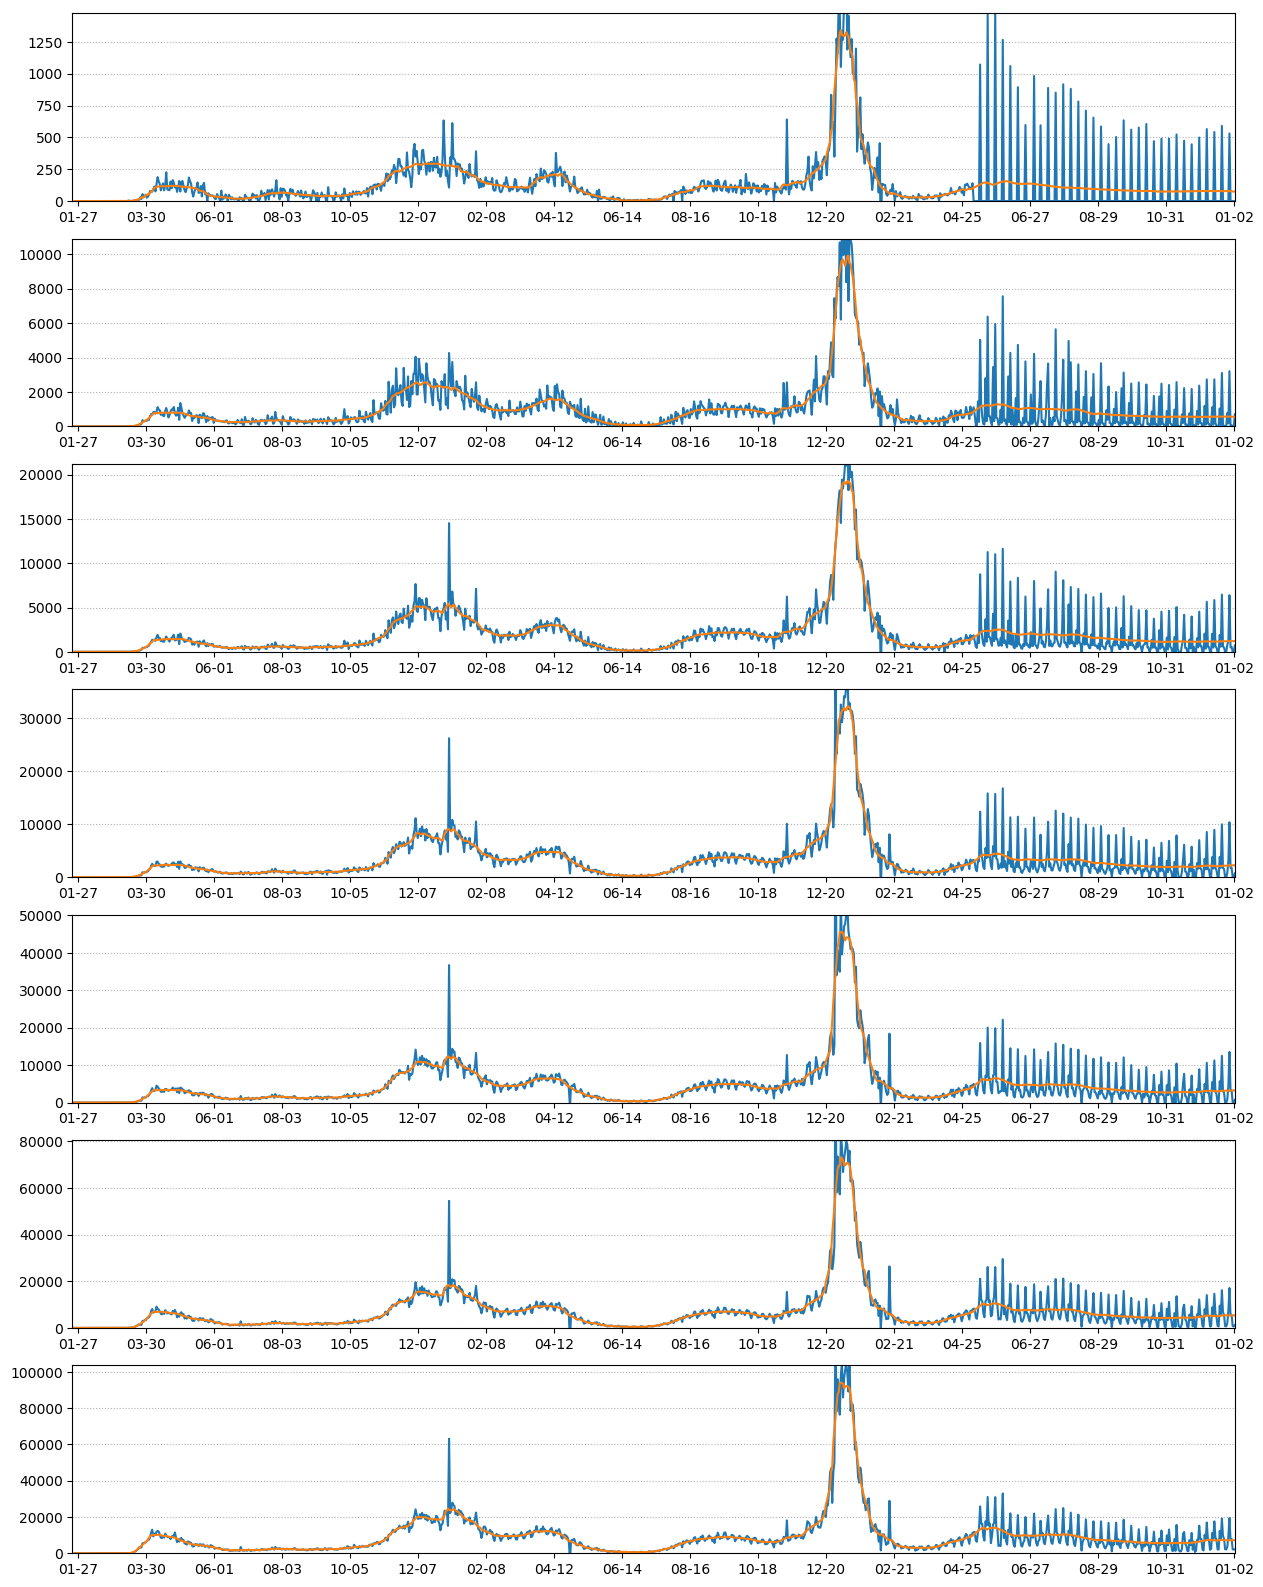
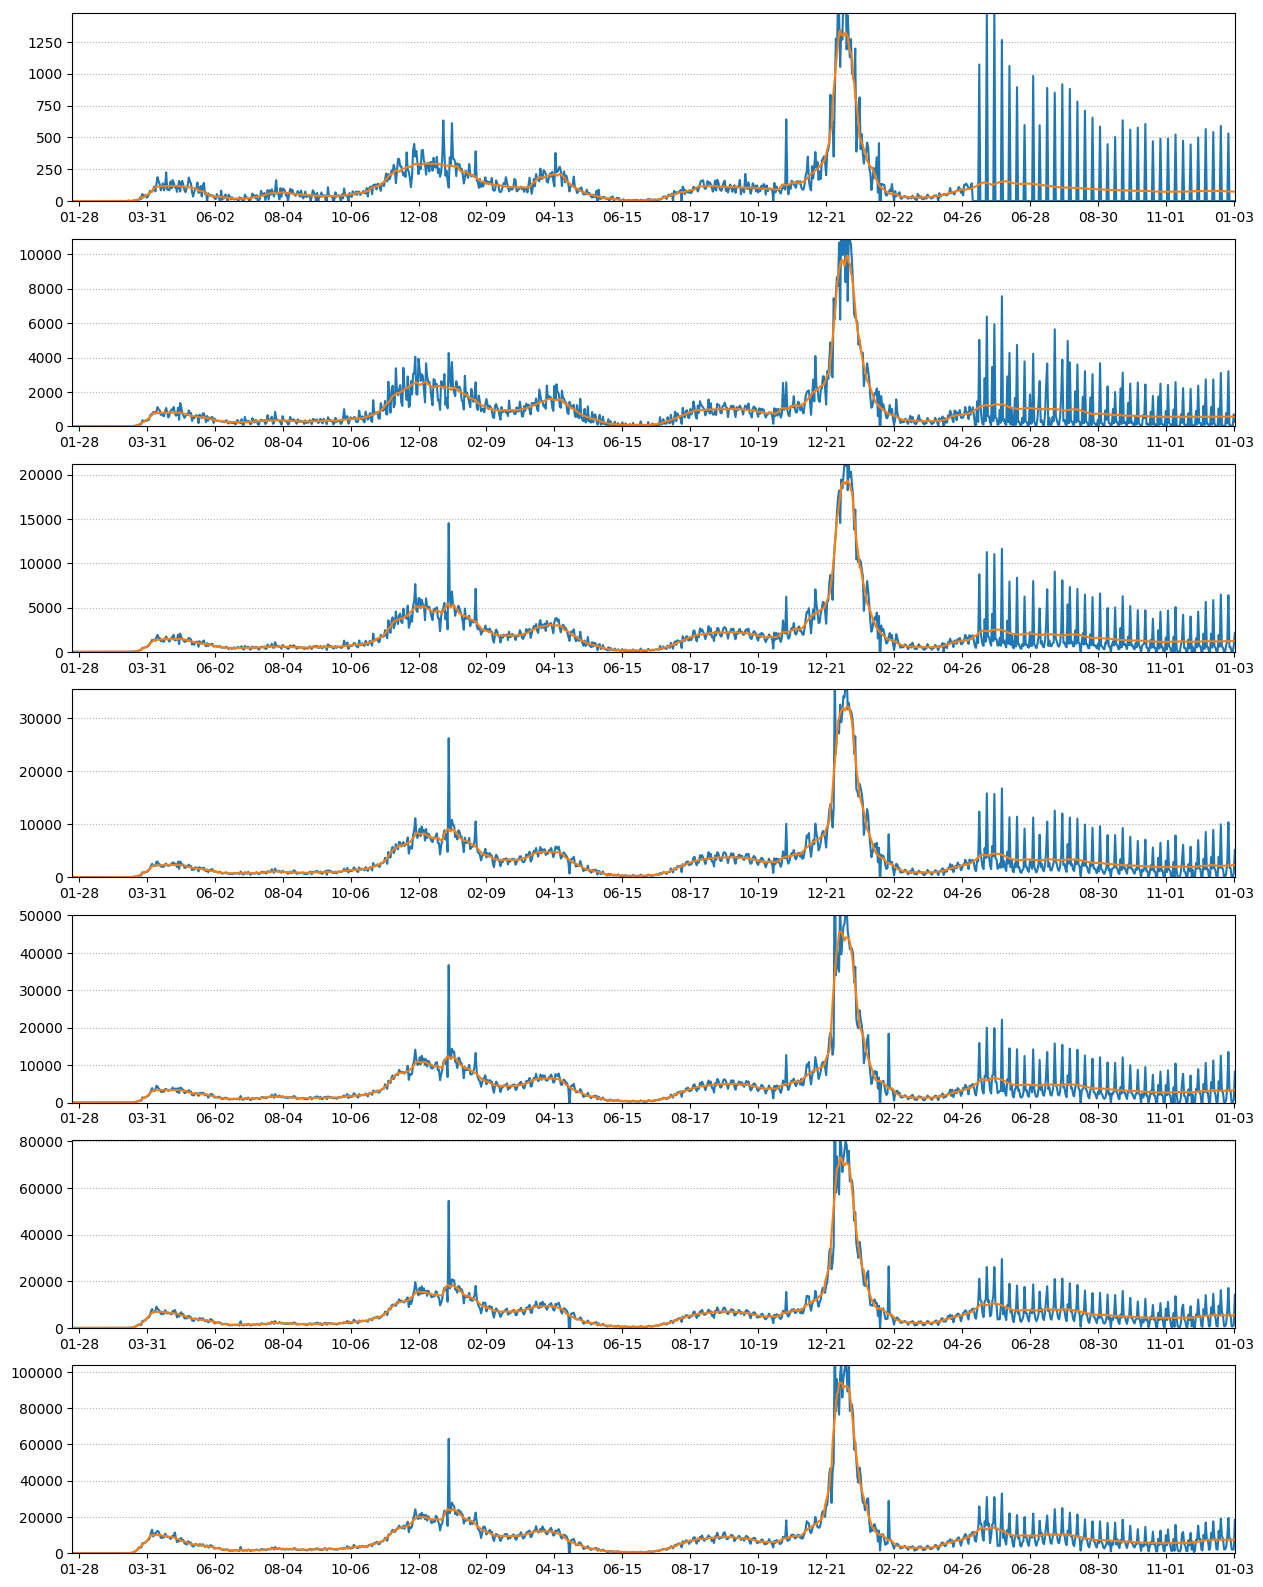
daily forecast

diff --git a/dailymessage.html b/dailymessage.html
@@ -1,46 +1,46 @@
 Delaware County COVID-19 Monitor<br>
-as of 2023-01-02<br>
+as of 2023-01-03<br>
 <table border="1" cellspacing="5" cellpadding="3">
 <tr>
 <td>0</td>
-<td>74</td>
+<td>73</td>
 <td>566747</td>
-<td>13.0</td>
+<td>12.8</td>
 </tr>
 <tr>
 <td>1</td>
-<td>554</td>
+<td>549</td>
 <td>4357104</td>
-<td>12.7</td>
+<td>12.6</td>
 </tr>
 <tr>
 <td>2</td>
-<td>1214</td>
+<td>1242</td>
 <td>8052045</td>
-<td>15.0</td>
+<td>15.4</td>
 </tr>
 <tr>
 <td>3</td>
-<td>2247</td>
+<td>2333</td>
 <td>13327166</td>
-<td>16.8</td>
-</tr>
-<tr>
-<td>4</td>
-<td>3245</td>
-<td>18498878</td>
 <td>17.5</td>
 </tr>
 <tr>
+<td>4</td>
+<td>3392</td>
+<td>18498878</td>
+<td>18.3</td>
+</tr>
+<tr>
 <td>5</td>
-<td>5365</td>
+<td>5667</td>
 <td>27240755</td>
-<td>19.6</td>
+<td>20.8</td>
 </tr>
 <tr>
 <td>6</td>
-<td>7195</td>
+<td>7799</td>
 <td>34871340</td>
-<td>20.6</td>
+<td>22.3</td>
 </tr>
 </table>
